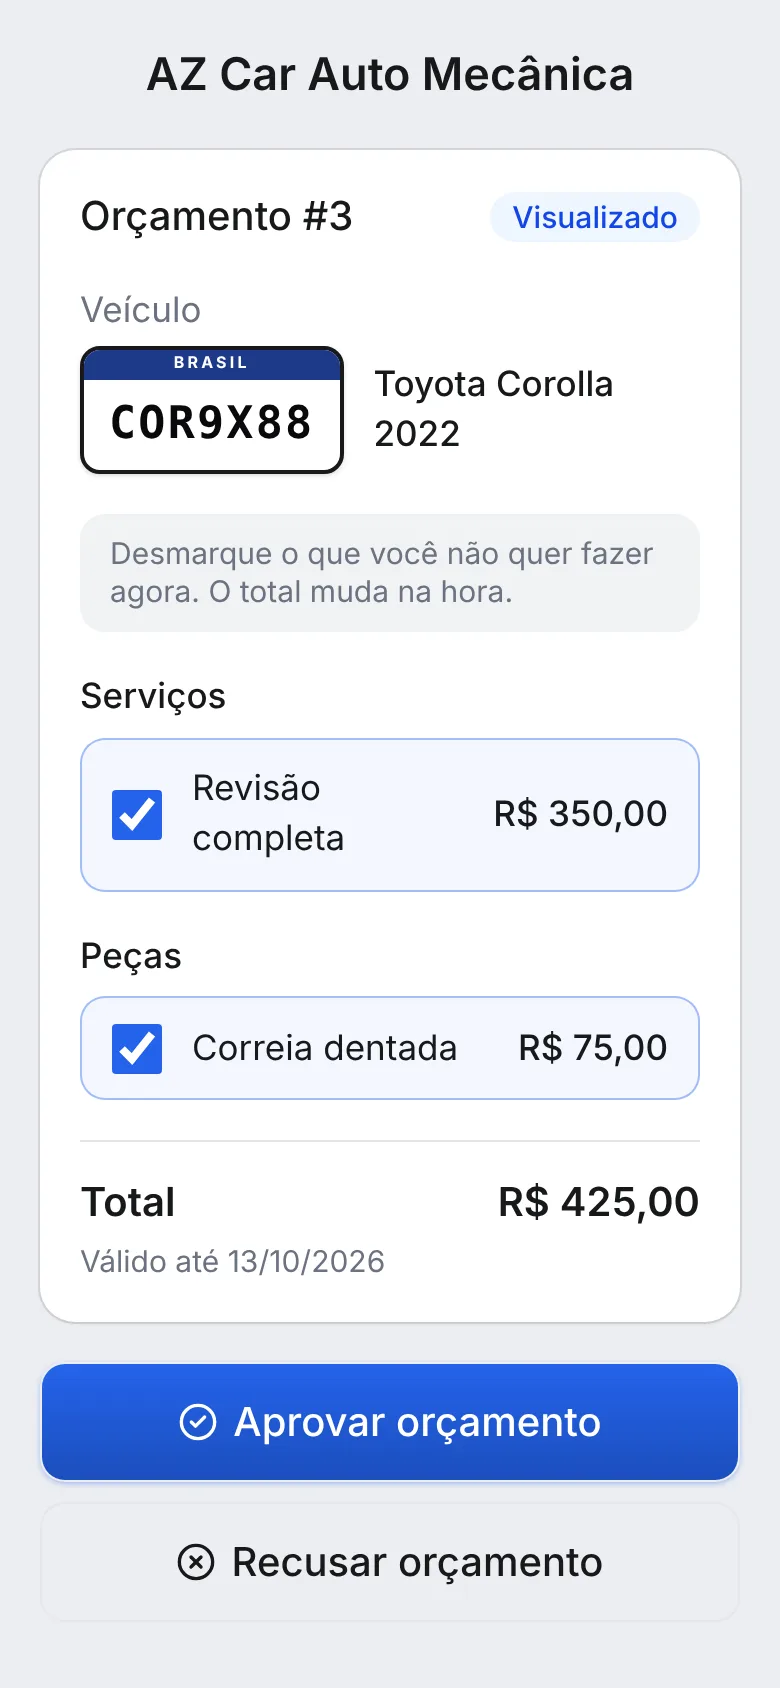
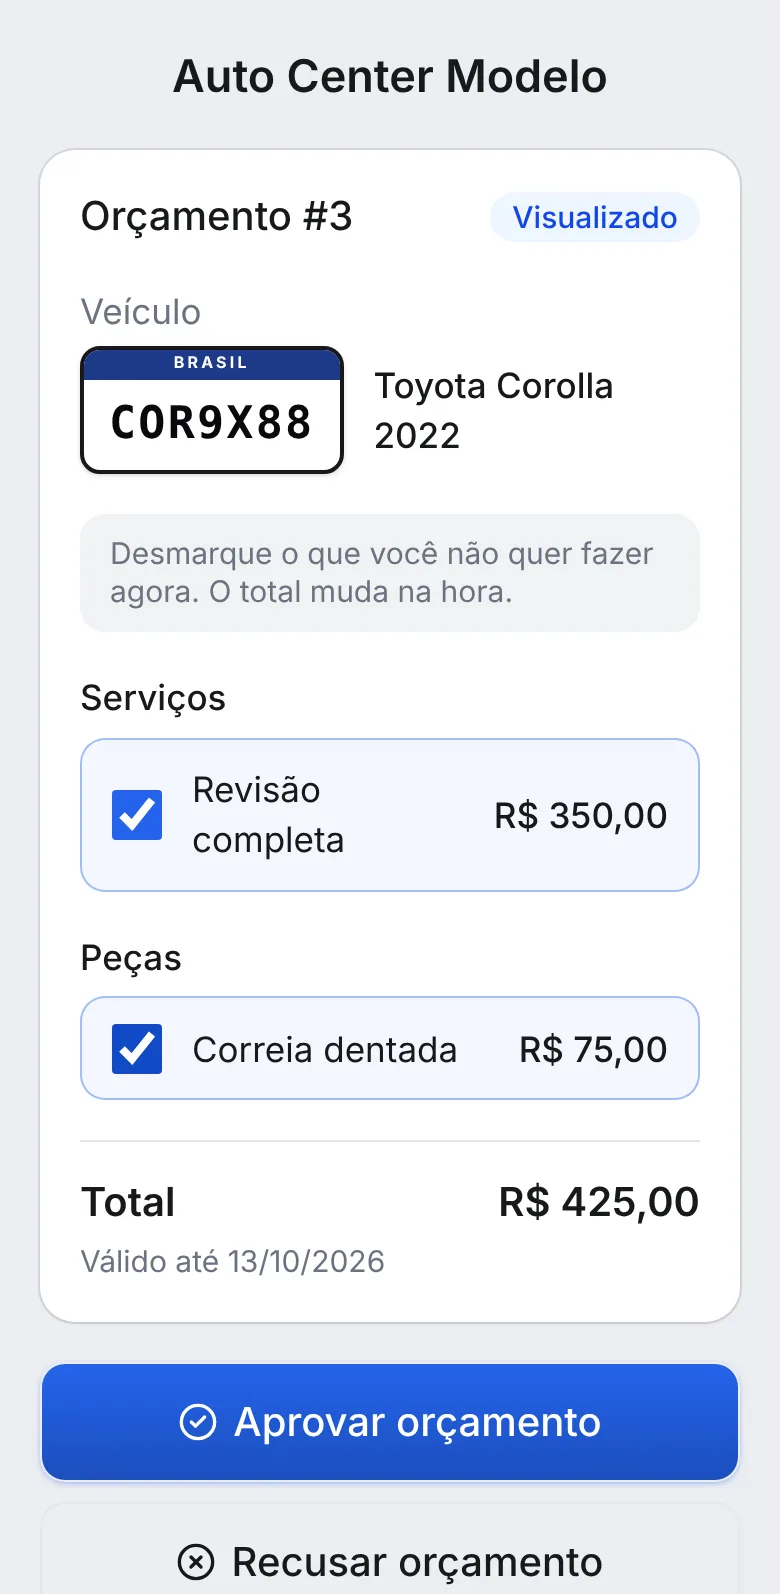
Celular da cena com a tela da empresa fictícia do OrçaFácil

diff --git a/index.html b/index.html
@@ -110,7 +110,7 @@
             </span>
           </div>
           <span class="s-ap-iphone-ilha"></span>
-          <img src="assets/produtos/orcafacil-celular.webp" alt="" width="780" height="1688" decoding="async">
+          <img src="assets/produtos/orcafacil-celular.webp" alt="" width="390" height="797" decoding="async">
           <span class="s-ap-iphone-home"></span>
         </div>
       </div>
